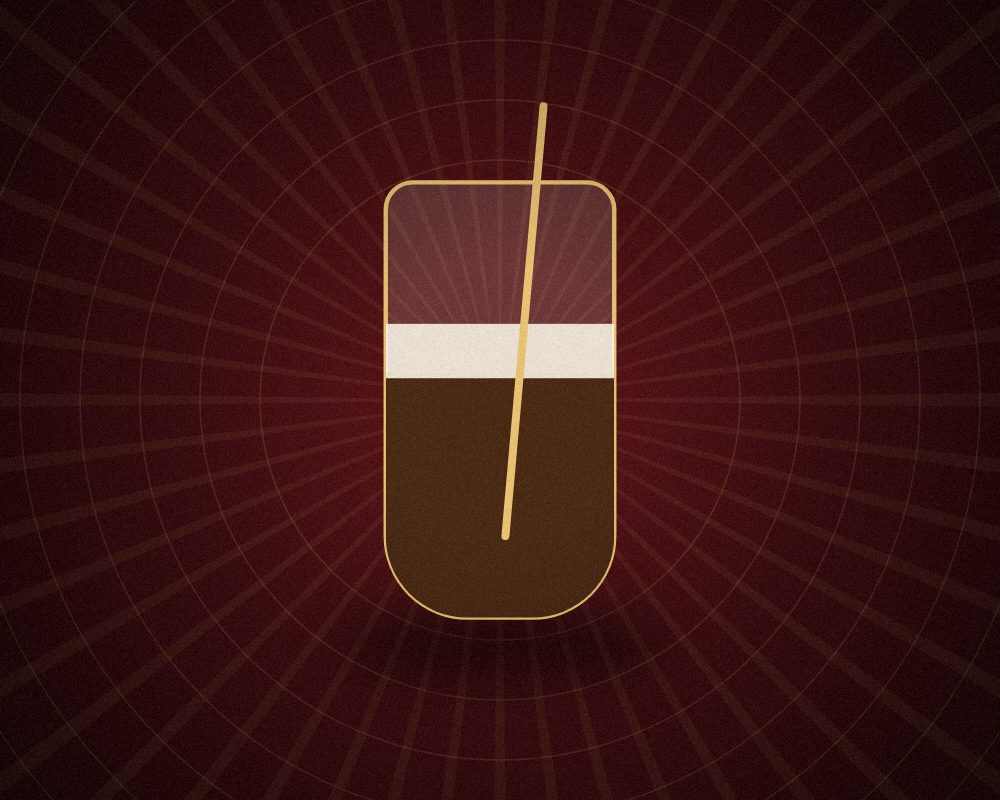
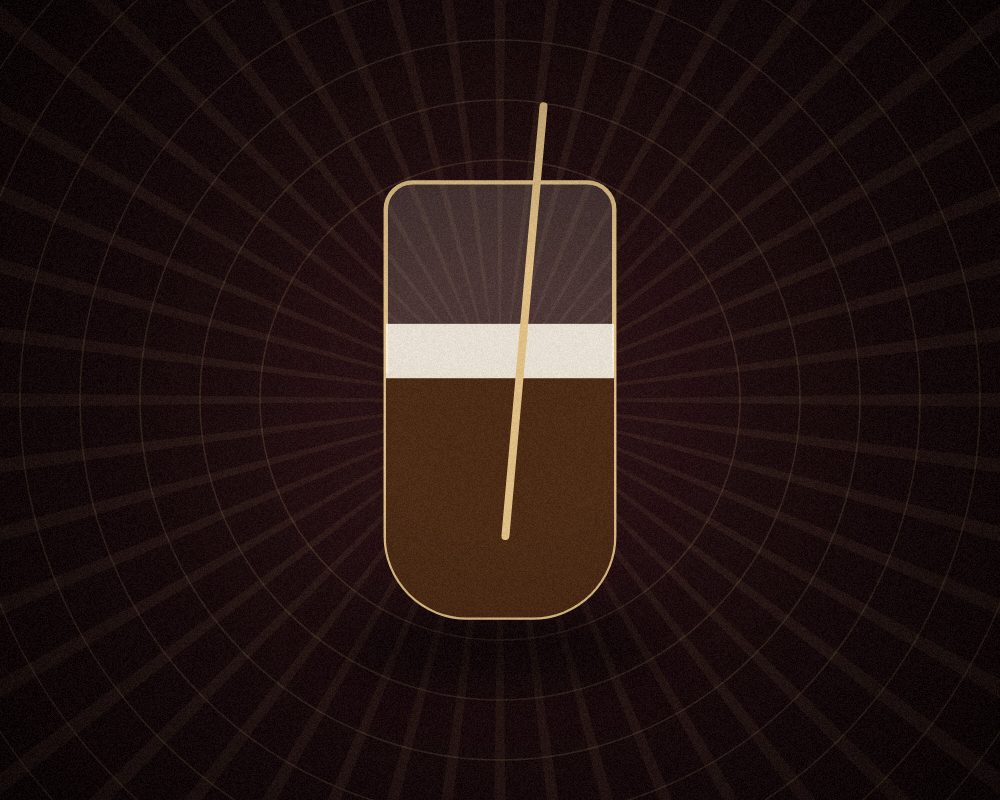
Luxury pass: depth, air, hairlines, slower motion
Four levers, applied together, since luxury on a page comes from
restraint rather than from adding anything.

Depth. The grounds drop from saturated oxblood to near-black with a
wine undertone, so gold becomes the only bright thing on the page
instead of competing with a bright red. The twelve illustrations were
re-rendered against the same values; before that they sat as pale discs
on a darker page.

Air. Section padding grows from 76-148px to 104-208px, section heads
get half again as much space beneath them, and body text moves to 17px
on 1.78 line-height.

Hairlines. The dish cards lose their boxes entirely: no frame, no fill,
no radius, just a single rule above each one and the image sitting on
the ground. Review cards keep a border but drop to a 2px radius and an
almost invisible fill.

Motion slows down, because hurry reads as cheap. Heading reveals go
from 0.95s to 1.5s, grid staggers from 0.6s to 1.05s with longer gaps
between items, and the hero sequence stretches from 1.1s to 1.8s, all
on a gentler curve.

Text was re-measured against its own surface after the palette moved:
button 9.83:1, hero lede 17.90:1, prices 8.13:1, review quotes 17.13:1,
body copy 16.23:1. All AA.

Claude-Session: https://claude.ai/code/session_0169mMq5Ns5wKA1rZgDyS7n8

diff --git a/assets/css/site.css b/assets/css/site.css
@@ -9,23 +9,23 @@
 :root {
   /* Vietnamese lacquer: oxblood red and gold leaf. The reds carry a
      warm brown bias so they read as lacquered wood, not fire-engine. */
-  --jade-900: #24080A;
-  --jade-800: #3D0D11;
-  --jade-700: #571318;
-  --jade-600: #74191E;
-  --jade-500: #96262A;
-  --jade-300: #E8B776;
-  --jade-200: #F6DCAC;
+  --jade-900: #110607;
+  --jade-800: #1B0B0D;
+  --jade-700: #291214;
+  --jade-600: #3A1A1D;
+  --jade-500: #5C2529;
+  --jade-300: #D9B683;
+  --jade-200: #EFDCB6;
 
-  --bone:     #F7F1E3;
-  --bone-2:   #EDE4CF;
-  --bone-3:   #E0D4B8;
+  --bone:     #F6F2E9;
+  --bone-2:   #EEE8DA;
+  --bone-3:   #E2D9C6;
 
   --chilli:   #C8342C;
   --chilli-d: #A02420;
   --chilli-ink: #8C1D21;   /* prices on light grounds, AA at small sizes */
   --chilli-btn: #E3B85C;   /* brightest red that clears AA for button text */
-  --gold:     #E9C173;
+  --gold:     #DEBE85;
 
   --ink:      #1A0708;
   --text:     #241012;
@@ -35,9 +35,9 @@
   --on-jade:   #F9F2E4;
   --on-jade-2: rgba(249, 242, 228, 0.76);
   --on-jade-3: rgba(249, 242, 228, 0.52);
-  --jade-line: rgba(233, 193, 115, 0.26);
-  --line:      rgba(36, 16, 18, 0.15);
-  --line-2:    rgba(36, 16, 18, 0.09);
+  --jade-line: rgba(222, 190, 133, 0.17);
+  --line:      rgba(36, 16, 18, 0.11);
+  --line-2:    rgba(36, 16, 18, 0.055);
 
   --display: "Newsreader", "Iowan Old Style", Georgia, "Times New Roman", serif;
   --sans: "Archivo", -apple-system, BlinkMacSystemFont, "Segoe UI", Roboto,
@@ -54,6 +54,7 @@
 
   --ease: cubic-bezier(0.4, 0, 0.2, 1);
   --ease-out: cubic-bezier(0.16, 1, 0.3, 1);
+  --ease-lux: cubic-bezier(0.22, 0.61, 0.24, 1);
 
   color-scheme: light;
 }
@@ -67,8 +68,8 @@ body {
   background: var(--bone);
   color: var(--text);
   font-family: var(--sans);
-  font-size: 16.5px;
-  line-height: 1.65;
+  font-size: 17px;
+  line-height: 1.78;
   font-weight: 400;
   -webkit-font-smoothing: antialiased;
   -moz-osx-font-smoothing: grayscale;
@@ -111,8 +112,8 @@ h1, h2, h3, h4 {
   margin: 0;
   text-wrap: balance;
 }
-h1 { font-size: clamp(2.9rem, 6.4vw, 5.6rem); }
-h2 { font-size: clamp(2.5rem, 5.6vw, 4.4rem); }
+h1 { font-size: clamp(3rem, 7vw, 6.2rem); letter-spacing: -0.026em; }
+h2 { font-size: clamp(2.6rem, 5.8vw, 4.7rem); letter-spacing: -0.022em; }
 h3 { font-size: clamp(1.15rem, 2vw, 1.4rem); letter-spacing: -0.01em; }
 h1 em, h2 em { font-style: italic; color: var(--gold); }
 p { margin: 0 0 1.05em; }
@@ -125,15 +126,15 @@ p:last-child { margin-bottom: 0; }
   width: 100%; max-width: var(--shell);
   margin-inline: auto; padding-inline: var(--gutter);
 }
-.section { padding-block: clamp(76px, 10vw, 148px); position: relative; }
-.section--tight { padding-block: clamp(48px, 6vw, 76px); }
+.section { padding-block: clamp(104px, 13vw, 208px); position: relative; }
+.section--tight { padding-block: clamp(64px, 8vw, 104px); }
 .section--paper2 { background: var(--bone-2); }
 .section--dark { background: var(--jade-800); color: var(--on-jade); }
 .section--dark h2, .section--dark h3 { color: var(--on-jade); }
 .section--dark .eyebrow { color: var(--gold); }
 
-.section-head { max-width: 40ch; margin-bottom: clamp(40px, 5vw, 66px); }
-.section-head p { color: var(--text-2); font-size: 1.02rem; max-width: 46ch; }
+.section-head { max-width: 40ch; margin-bottom: clamp(56px, 7vw, 92px); }
+.section-head p { color: var(--text-2); font-size: 1.06rem; line-height: 1.72; max-width: 46ch; }
 .section--dark .section-head p { color: var(--on-jade-2); }
 
 /* ---------- Buttons ---------- */
@@ -408,11 +409,11 @@ body.nav-open .nav-toggle span::after  { transform: translateY(0) rotate(-45deg)
 .spice-row {
   display: grid; grid-template-columns: repeat(auto-fit, minmax(172px, 1fr));
   gap: 1px; background: var(--jade-line);
-  border: 1px solid var(--jade-line); border-radius: var(--r-lg);
-  overflow: hidden; margin-top: clamp(32px, 5vw, 54px);
+  border: 1px solid var(--jade-line); border-radius: 2px;
+  overflow: hidden; margin-top: clamp(40px, 6vw, 68px);
 }
 .spice {
-  background: var(--jade-900); padding: 30px 24px 28px;
+  background: var(--jade-900); padding: 40px 30px 36px;
   display: flex; flex-direction: column; gap: 12px;
   transition: background-color 0.4s var(--ease);
 }
@@ -454,12 +455,13 @@ body.nav-open .nav-toggle span::after  { transform: translateY(0) rotate(-45deg)
 }
 .sig-card {
   display: flex; flex-direction: column;
-  background: var(--bone); border: 1px solid var(--line-2);
-  border-radius: var(--r-lg); overflow: hidden;
+  background: transparent; border: 0;
+  border-top: 1px solid var(--line);
+  border-radius: 0; overflow: hidden;
 }
-.sig-card__media { aspect-ratio: 5 / 4; overflow: hidden; background: var(--jade-900); }
+.sig-card__media { aspect-ratio: 5 / 4; overflow: hidden; background: var(--jade-900); margin-top: 24px; }
 .sig-card__media > * { width: 100%; height: 100%; object-fit: cover; }
-.sig-card__body { padding: 22px 22px 25px; display: flex; flex-direction: column; flex: 1; }
+.sig-card__body { padding: 24px 0 0; display: flex; flex-direction: column; flex: 1; }
 .sig-card__top { display: flex; align-items: baseline; gap: 14px; margin-bottom: 9px; }
 .sig-card__top h3 { flex: 1; }
 .sig-card__price {
@@ -494,8 +496,8 @@ body.nav-open .nav-toggle span::after  { transform: translateY(0) rotate(-45deg)
 }
 .review {
   display: flex; flex-direction: column;
-  padding: 28px 26px; border: 1px solid var(--jade-line);
-  border-radius: var(--r-lg); background: rgba(244, 241, 230, 0.035);
+  padding: 34px 30px; border: 1px solid var(--jade-line);
+  border-radius: 2px; background: rgba(246, 242, 233, 0.022);
 }
 .review__head { display: flex; align-items: center; gap: 12px; margin-bottom: 18px; }
 .review__avatar {
@@ -803,12 +805,12 @@ body.nav-open .nav-toggle span::after  { transform: translateY(0) rotate(-45deg)
   from { opacity: 0; transform: translateY(14px); }
   to   { opacity: 1; transform: none; }
 }
-.hero__status { animation: hero-in 0.7s var(--ease-out) both; }
-.hero h1      { animation: hero-in 0.9s var(--ease-out) 0.08s both; }
-.hero__lede   { animation: hero-in 0.9s var(--ease-out) 0.18s both; }
-.hero__actions{ animation: hero-in 0.9s var(--ease-out) 0.26s both; }
-.hero__facts  { animation: hero-in 0.9s var(--ease-out) 0.34s both; }
-.hero__art    { animation: hero-in 1.1s var(--ease-out) 0.2s both; }
+.hero__status { animation: hero-in 1.15s var(--ease-out) both; }
+.hero h1      { animation: hero-in 1.4s var(--ease-lux) 0.12s both; }
+.hero__lede   { animation: hero-in 1.4s var(--ease-lux) 0.30s both; }
+.hero__actions{ animation: hero-in 1.4s var(--ease-lux) 0.46s both; }
+.hero__facts  { animation: hero-in 1.4s var(--ease-lux) 0.60s both; }
+.hero__art    { animation: hero-in 1.8s var(--ease-lux) 0.28s both; }
 
 .media { width: 100%; height: 100%; object-fit: cover; }
 
@@ -891,7 +893,7 @@ body.nav-open .nav-toggle span::after  { transform: translateY(0) rotate(-45deg)
   display: block;
   clip-path: inset(0 0 110% 0);
   transform: translateY(0.16em);
-  transition: clip-path 0.95s var(--ease-out), transform 0.95s var(--ease-out);
+  transition: clip-path 1.5s var(--ease-lux), transform 1.5s var(--ease-lux);
 }
 .is-in .reveal-wipe, .reveal-wipe.is-in {
   clip-path: inset(0 0 -20% 0);
@@ -901,8 +903,8 @@ body.nav-open .nav-toggle span::after  { transform: translateY(0) rotate(-45deg)
 /* --- Grids arrive one item after another, briefly. --- */
 .stagger > * {
   opacity: 0; transform: translateY(12px);
-  transition: opacity 0.6s var(--ease-out), transform 0.6s var(--ease-out);
-  transition-delay: calc(var(--i, 0) * 70ms);
+  transition: opacity 1.05s var(--ease-lux), transform 1.05s var(--ease-lux);
+  transition-delay: calc(var(--i, 0) * 110ms);
 }
 .stagger.is-in > * { opacity: 1; transform: none; }
 

diff --git a/tools/art/art.html b/tools/art/art.html
@@ -6,9 +6,9 @@ const Q=new URLSearchParams(location.search);
 const DISH=Q.get('d')||'pho', W=+(Q.get('w')||1600), H=+(Q.get('h')||1000);
 const c=document.getElementById('c'); c.width=W; c.height=H; const x=c.getContext('2d');
 
-const OX='#3D0D11', OX2='#24080A', GOLD='#E9C173', GOLD2='#C99B4E',
-      CREAM='#F7F1E3', CREAM2='#E4D6B8', BROTH='#C98A32', BROTH2='#9A5F1C',
-      MEAT='#8E2A26', MEAT2='#6A1C1B', HERB='#4F7A4A', HERB2='#355A34', CHILLI='#C8342C';
+const OX='#1B0B0D', OX2='#110607', GOLD='#DEBE85', GOLD2='#B99A62',
+      CREAM='#F7F1E3', CREAM2='#E4D6B8', BROTH='#C08331', BROTH2='#8E571A',
+      MEAT='#7E2723', MEAT2='#5A1A18', HERB='#4A7145', HERB2='#31532F', CHILLI='#B32F27';
 
 let seed=99; const rnd=()=>(seed=(seed*16807)%2147483647)/2147483647;
 const TAU=Math.PI*2;
@@ -16,7 +16,7 @@ const TAU=Math.PI*2;
 /* ---------- shared ground: lacquer + sunburst ---------- */
 function ground(cx,cy){
   const g=x.createRadialGradient(cx,cy,0,cx,cy,Math.max(W,H)*.72);
-  g.addColorStop(0,'#5A151A'); g.addColorStop(.55,OX); g.addColorStop(1,OX2);
+  g.addColorStop(0,'#2E1417'); g.addColorStop(.55,OX); g.addColorStop(1,OX2);
   x.fillStyle=g; x.fillRect(0,0,W,H);
   // sunburst rays
   x.save(); x.translate(cx,cy); x.globalAlpha=.07; x.fillStyle=GOLD;
